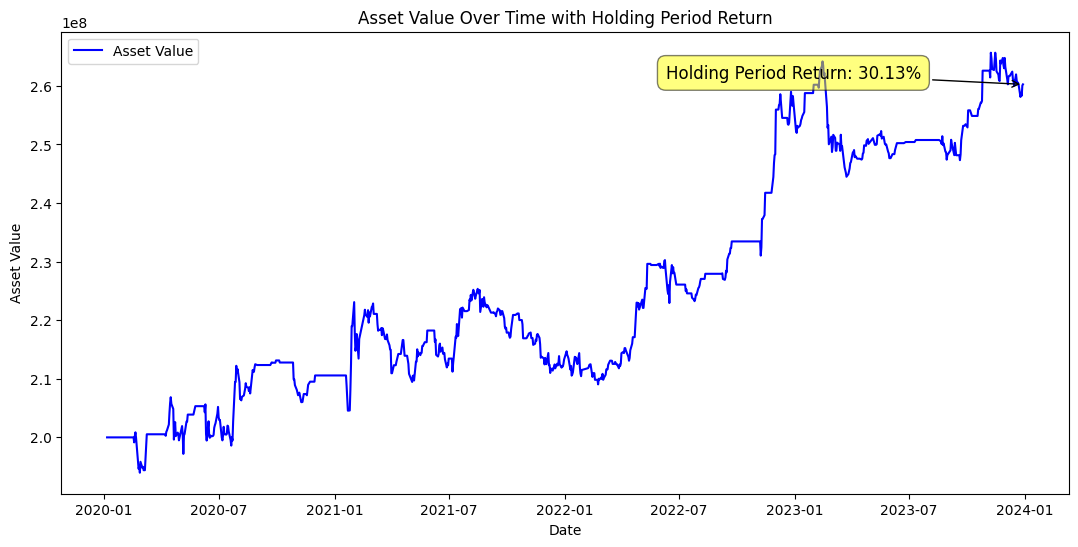
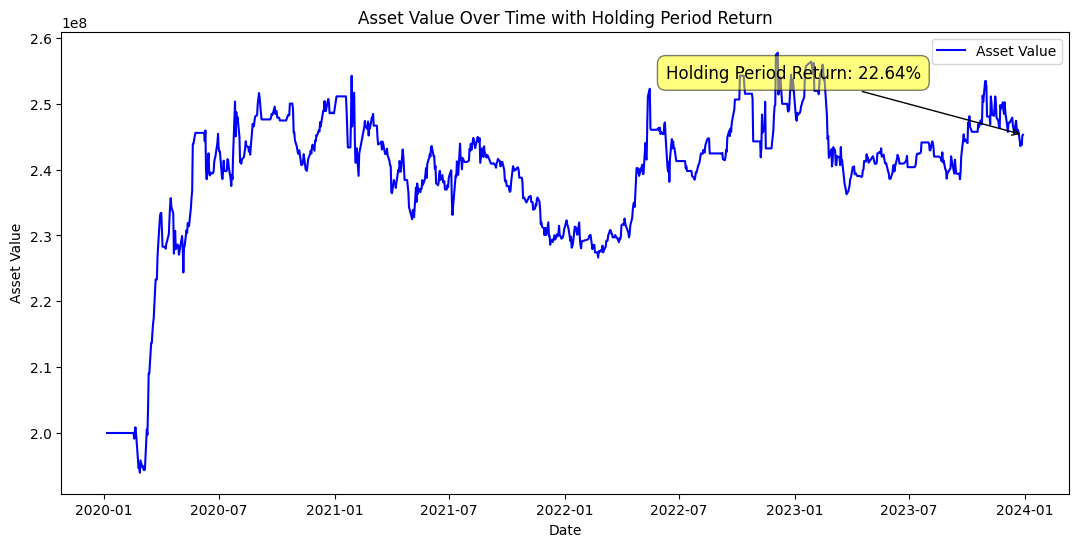
Adjust modules

diff --git a/src/optimize.py b/src/optimize.py
@@ -634,8 +634,10 @@ if __name__ == '__main__':
     parser = argparse.ArgumentParser(description="Optimize a trading strategy using historical data.")
     parser.add_argument('--data', type=str, default='in_sample.csv', help='Path to the CSV file containing OHLC data.')
     parser.add_argument(
-        '--algo', type=str, choices=['static_momentum', 'dynamic_momentum', 'static_reversion', 'dynamic_reversion'], required=True,
-        help='Type of algorithm to run: "static_momentum", "dynamic_momentum", "static_reversion", or "dynamic_reversion".'
+        '--algo', type=str,
+        choices=['non_dynamic_momentum', 'dynamic_momentum', 'non_dynamic_reversion', 'dynamic_reversion'],
+        required=True,
+        help='Type of algorithm to run: "non_dynamic_momentum", "dynamic_momentum", "non_dynamic_reversion", or "dynamic_reversion".'
     )
 
     args = parser.parse_args()
@@ -643,11 +645,11 @@ if __name__ == '__main__':
     # Load data
     data = pd.read_csv(args.data, index_col=0, parse_dates=True)
 
-    if args.algo == 'static_momentum':
+    if args.algo == 'non_dynamic_momentum':
         result = momentum_optimize(data)
     elif args.algo == 'dynamic_momentum':
         result = dynamic_momentum_optimize(data)
-    elif args.algo == 'static_reversion':
+    elif args.algo == 'non_dynamic_reversion':
         result = reversion_optimize(data)
     elif args.algo == 'dynamic_reversion':
         result = dynamic_reversion_optimize(data)

diff --git a/src/optuna_optimize.py b/src/optuna_optimize.py
@@ -59,7 +59,7 @@ if __name__ == "__main__":
     # Load data
     data = pd.read_csv(args.data, index_col=0, parse_dates=True)
 
-    if args.dynamic == 'true':
+    if args.dynamic == 'false':
         study = optuna.create_study(direction='maximize', study_name="opt_VN30F1M")
         study.optimize(lambda t: objective(t, data), n_trials=100000, timeout=600)
     else:

diff --git a/src/backtest.py b/src/backtest.py
@@ -345,7 +345,7 @@ if __name__ == "__main__":
         params = json.load(f)
 
     # Run selected algorithm
-    if args.dynamic == 'true':
+    if args.dynamic == 'false':
         result = algo(data, **params)
     else: result = dynamic_algo(data, **params)
     

diff --git a/README.md b/README.md
@@ -407,11 +407,11 @@ REVERSION_ATR_WINDOW = 7
 ![insample report](images/3.png)
 
 - Dynamic algorithm result:
-    - Holding Period Return: 30.13%
-    - Maximum Drawdown: -7.45%
-    - Longest Drawdown Duration: 185 days
-    - Sharpe Ratio: 0.454131
-    - Sortino Ratio: -0.851165
+    - Holding Period Return: 22.64%
+    - Maximum Drawdown: -10.86%
+    - Longest Drawdown Duration: 418 days
+    - Sharpe Ratio: 0.251111
+    - Sortino Ratio: -0.871138
 
 ![insample report](images/4.png)
 ![insample report](images/5.png)
@@ -545,7 +545,7 @@ REVERSION_ATR_WINDOW = 6
 
 - The script to run the optuna optimization is as follow:
 ```bash
-python optimize_optuna.py --data data_file --dynamic true/false
+python optuna_optimize.py --data data_file --dynamic true/false
 ```
 - `data_file`: Name of the data file. This file must be in the csv format and contain the columns 'Time', 'Open', 'High', 'Low', 'Close'.
 - `dynamic`: A flag indicating whether to use the dynamic algorithm (true) or the non-dynamic algorithm (false).
@@ -554,11 +554,11 @@ python optimize_optuna.py --data data_file --dynamic true/false
 - Example:
     - To run the optuna optimization script for the non-dynamic algorithm:
     ```bash
-    python optimize_optuna.py --data in_sample.csv --dynamic false
+    python optuna_optimize.py --data in_sample.csv --dynamic false
     ```
     - To run the optuna optimization script for the dynamic algorithm:
     ```bash
-    python optimize_optuna.py --data in_sample.csv --dynamic true
+    python optuna_optimize.py --data in_sample.csv --dynamic true
     ```
 
 ### Optimization with Optuna Result
@@ -587,19 +587,19 @@ python optimize_optuna.py --data data_file --dynamic true/false
 ## Out-of-sample Backtesting
 - To run the out-sample backtesting script with the non-dynamic algorithm, using the parameters from the original optimization:
 ```bash
-python backtest.py --data in_sample.csv --dynamic false --params optimized_non_dynamic_params.json
+python backtest.py --data out_sample.csv --dynamic false --params optimized_non_dynamic_params.json
 ```
 - To run the out-sample backtesting script with the dynamic algorithm, using the parameters from the original optimization:
 ```bash
-python backtest.py --data in_sample.csv --dynamic true --params optimized_dynamic_params.json
+python backtest.py --data out_sample.csv --dynamic true --params optimized_dynamic_params.json
 ```
 - To run the out-sample backtesting script with the non-dynamic algorithm, using the parameters from the optuna optimization:
 ```bash
-python backtest.py --data in_sample.csv --dynamic false --params optuna_non_dynamic_params.json
+python backtest.py --data out_sample.csv --dynamic false --params optuna_non_dynamic_params.json
 ```
 - To run the out-sample backtesting script with the dynamic algorithm, using the parameters from the optuna optimization:
 ```bash
-python backtest.py --data in_sample.csv --dynamic true --params optuna_dynamic_params.json
+python backtest.py --data out_sample.csv --dynamic true --params optuna_dynamic_params.json
 ```
 ### Parameter
 ```python
